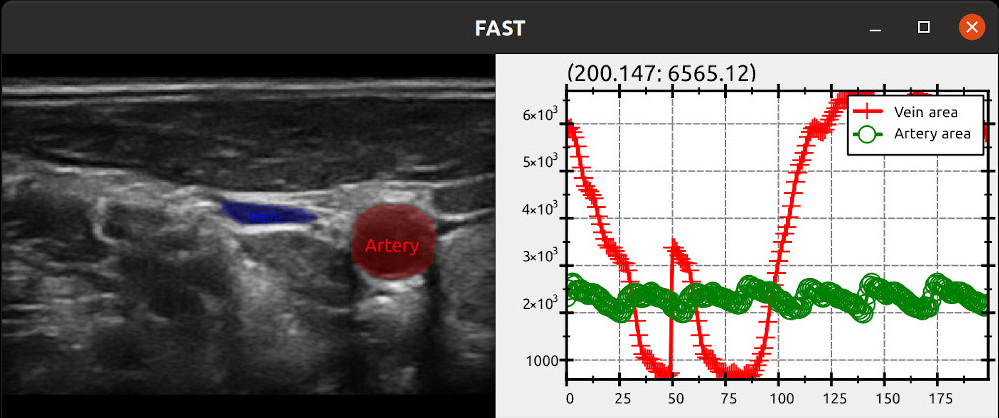
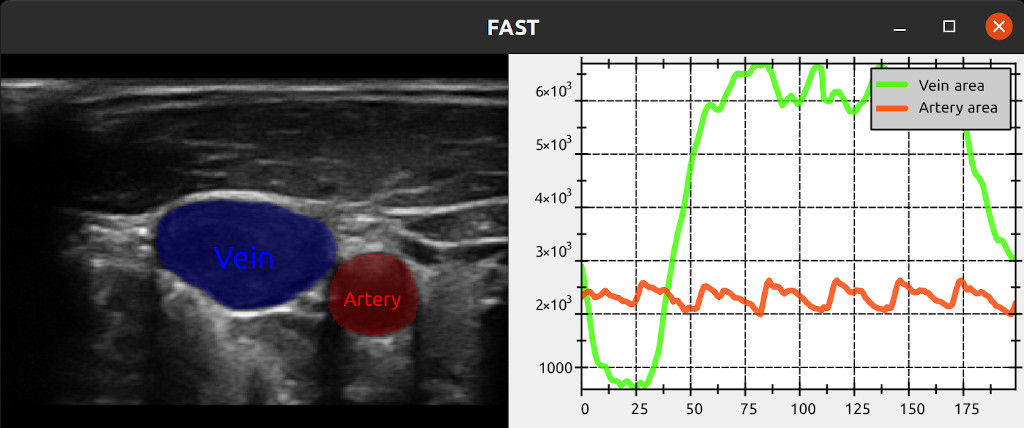
Added plotting styles

diff --git a/source/FAST/Visualization/Plotting/LinePlotter.cpp b/source/FAST/Visualization/Plotting/LinePlotter.cpp
@@ -5,16 +5,36 @@
 
 namespace fast {
 
-LinePlotter::LinePlotter(int bufferSize, int updateFrequency, bool circularMode) {
+LinePlotter::LinePlotter(int bufferSize, int updateFrequency, bool circularMode, PlottingStyle style, std::string styleFilename, bool disableMousePosition) {
 	createInputPort<FloatScalar>(0);
 
 	//QSettings plotSettings(":/JKQTPlotter/styles/dark.ini", QSettings::IniFormat);;
     //JKQTPGetSystemDefaultStyle().loadSettings(plotSettings);
     //JKQTPGetSystemDefaultBaseStyle().loadSettings(plotSettings);
 
-	m_plotterWidget = new JKQTPlotter();
+    if(!styleFilename.empty()) {
+        QSettings plotSettings(styleFilename.c_str(), QSettings::IniFormat);;
+        JKQTPGetSystemDefaultStyle().loadSettings(plotSettings);
+        JKQTPGetSystemDefaultBaseStyle().loadSettings(plotSettings);
+    } else {
+        if(style == PlottingStyle::BRIGHT) {
+            QSettings plotSettings((Config::getDocumentationPath() + "/bright-plotting-style.ini").c_str(), QSettings::IniFormat);;
+            JKQTPGetSystemDefaultStyle().loadSettings(plotSettings);
+            JKQTPGetSystemDefaultBaseStyle().loadSettings(plotSettings);
+        } else {
+            QSettings plotSettings((Config::getDocumentationPath() + "/dark-plotting-style.ini").c_str(), QSettings::IniFormat);;
+            JKQTPGetSystemDefaultStyle().loadSettings(plotSettings);
+            JKQTPGetSystemDefaultBaseStyle().loadSettings(plotSettings);
+        }
+    }
 
-	QObject::connect(this, &LinePlotter::newData, this, &LinePlotter::processQueue); // Define signal here so that it will happen in the main thread
+	m_plotterWidget = new JKQTPlotter();
+    if(style == PlottingStyle::DARK)
+        getPlotterWidget()->getPlotter()->setBackgroundColor("black");
+    if(disableMousePosition)
+        getPlotterWidget()->setMousePositionShown(false);
+
+    QObject::connect(this, &LinePlotter::newData, this, &LinePlotter::processQueue); // Define signal here so that it will happen in the main thread
 	setBufferSize(bufferSize);
     setCircularMode(circularMode);
     setUpdateFrequency(updateFrequency);

diff --git a/source/FAST/Visualization/Plotting/LinePlotter.hpp b/source/FAST/Visualization/Plotting/LinePlotter.hpp
@@ -8,9 +8,11 @@ namespace fast {
 FAST_SIMPLE_DATA_OBJECT(FloatScalar, float);
 FAST_SIMPLE_DATA_OBJECT(FloatPoint, Vector2f);
 
+enum class PlottingStyle {
+    BRIGHT,
+    DARK
+};
 
-// Input data objects: simple data object: float.., create one line per input connection
-// Redraw whenever new data arrives
 /**
  * @brief Plot lines to a graph Qt widget in real-time
  *
@@ -29,7 +31,10 @@ public:
     FAST_CONSTRUCTOR(LinePlotter,
                      int, bufferSize, = 64,
                      int, updateFrequency, = 15,
-                     bool, circularMode, = true
+                     bool, circularMode, = true,
+                     PlottingStyle, style, = PlottingStyle::BRIGHT,
+                     std::string, styleFilename, = "",
+                     bool, disableShowMousePosition, = true
     )
     std::shared_ptr<LinePlotter> connect(uint inputPortID, std::shared_ptr<ProcessObject> parentProcessObject, uint outputPortID = 0) {
         if(mInputPorts.count(inputPortID) == 0)

diff --git a/source/FAST/Examples/Python/real_time_line_plotter.py b/source/FAST/Examples/Python/real_time_line_plotter.py
@@ -9,7 +9,7 @@
 #     Do this with: <b>pip install pyside2==5.14.0</b>
 # @endparblock
 #
-# @image html images/examples/python/real_time_line_plotter.jpg width=350px;
+# @image html images/examples/python/real_time_line_plotter.jpg width=400px;
 
 from PySide2.QtWidgets import *
 import PySide2.QtSvg # Must import this before fast due to conflicting symbols
@@ -56,7 +56,7 @@ segmentationNetwork = fast.SegmentationNetwork.create(
 calculateArea = CalculateArea.create() \
     .connect(segmentationNetwork)
 
-linePlotter = fast.LinePlotter.create(bufferSize=200) \
+linePlotter = fast.LinePlotter.create(bufferSize=200,style=fast.PlottingStyle_DARK) \
     .connect(calculateArea) \
     .connect(1, calculateArea, 1)
 linePlotter.setNames({0: 'Artery area', 1: 'Vein area'})
